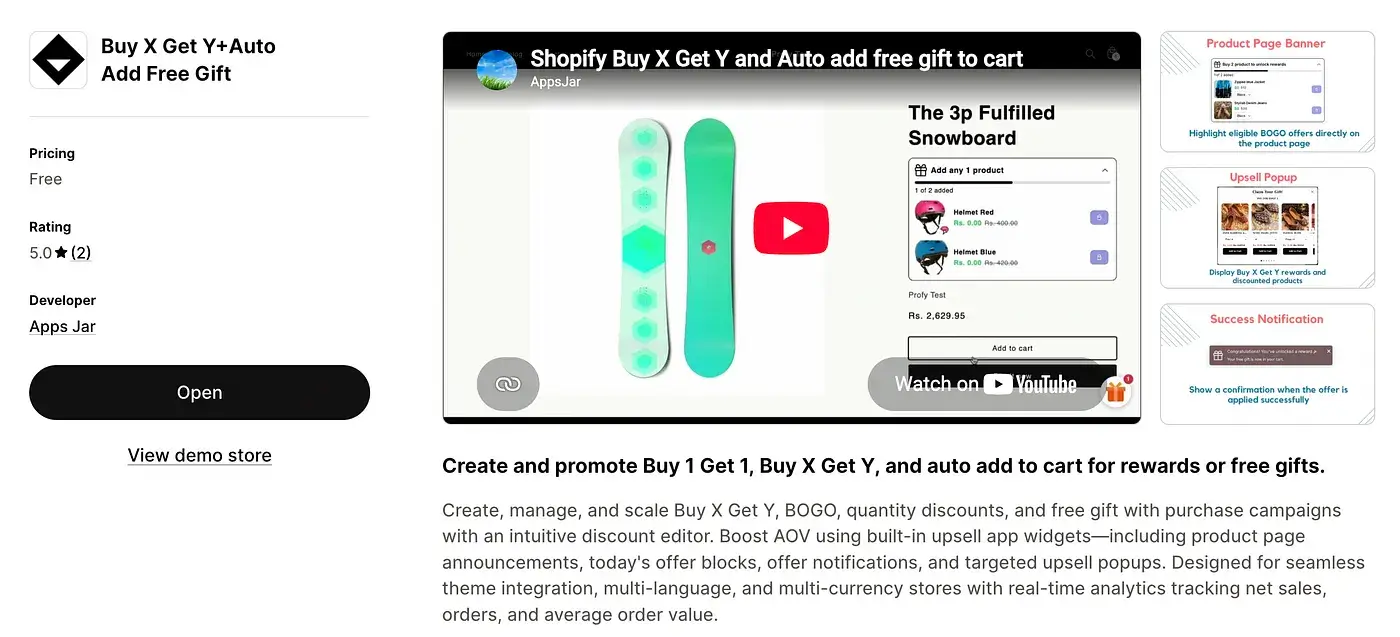
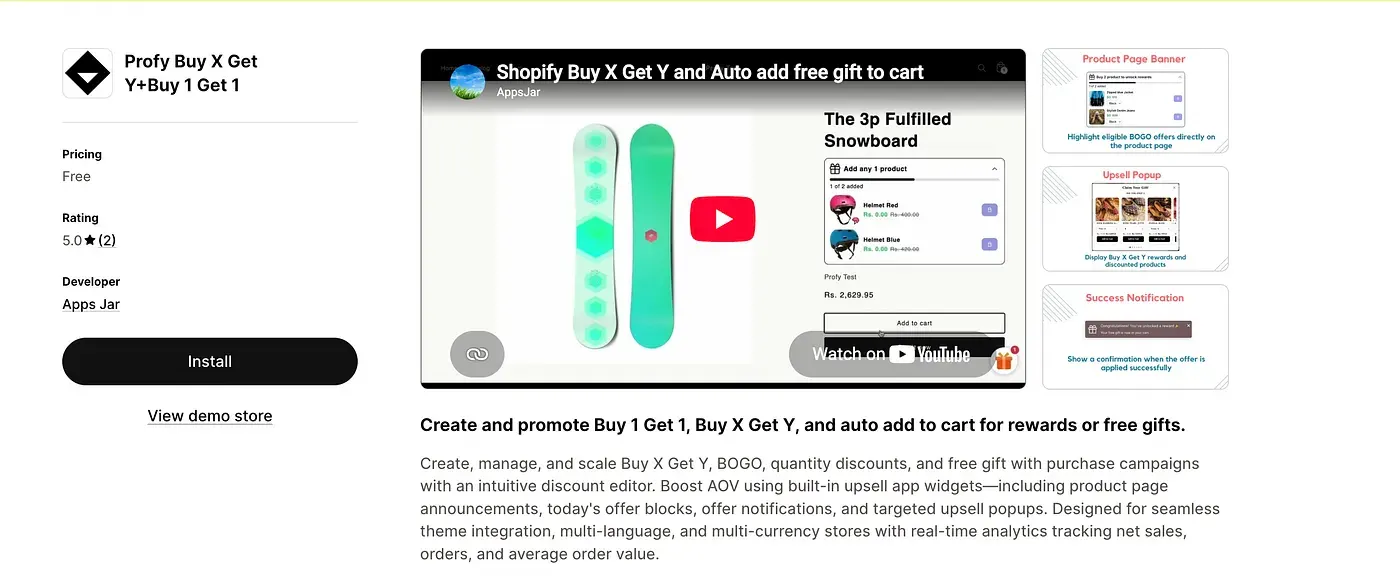
Updated app name and screenshot

diff --git a/_posts/2026-09-17-buy-x-get-y-free-discounts-on-shopify.md b/_posts/2026-09-17-buy-x-get-y-free-discounts-on-shopify.md
@@ -16,15 +16,15 @@ In this guide, you will learn:
 
 Whether you’re looking for a simple native solution or an automated, high-converting app setup, this walkthrough covers everything you need to build, launch, and optimize your BOGO strategy.
 
-### Install the “Buy X Get Y+Auto add Free Gift” Shopify app
+### Install the “Profy Buy X Get Y+Buy 1 Get 1” Shopify app
 
 <figure>
-  <img src="/assets/blog/buy-x-get-y/profy-app-page.webp" data-zoom-src="https://miro.medium.com/v2/resize:fit:4800/format:webp/1*a1qYb5yi-s4lKXF_kwjQRw.png" alt="Profy app page" loading="lazy"
+  <img src="/assets/blog/buy-x-get-y/profy-app-page.webp" data-zoom-src="https://miro.medium.com/v2/resize:fit:4800/format:webp/1*Kj453pU_VzePiasuAuKbrg.png" alt="Profy app page" loading="lazy"
     decoding="async">
   <figcaption>Profy app page</figcaption>
 </figure>
 
-Shopify doesn’t natively provide Buy X Get Y discount promotion widgets. We will install [**Buy X Get Y+Auto add Free Gift**](https://apps.shopify.com/profy-bogo-free-gift-upsell) Shopify app to create and promote these offers with product page announcements, upsell popups, Today’s Offer widgets, and success notifications.
+Shopify doesn’t natively provide Buy X Get Y discount promotion widgets. We will install [**Profy Buy X Get Y+Buy 1 Get 1**](https://apps.shopify.com/profy-bogo-free-gift-upsell) Shopify app to create and promote these offers with product page announcements, upsell popups, Today’s Offer widgets, and success notifications.
 
 Then, use the app’s analytics to measure offer performance, identify what works best, and optimize your promotions for higher conversions and sales.
 
@@ -128,7 +128,7 @@ The video demonstration below shows all four promotional widgets in action, high
 </figure>
 - **Today’s Offer Widget:** A persistent sticky button fixed to the side of the screen. When clicked, it opens a popup showcasing a full list of all **active Buy X Get Y and Free Gift deals across your store**.
 - **Upsell Popup:** Triggers automatically as soon as a **customer meets the “Buy” requirements**. It displays eligible reward products alongside their discounted prices, prompting shoppers to add the extra items to their cart to claim the deal.
-- **Product Page BXGY Announcement:** Displays applicable Buy X Get Y deals directly on the **product detail page _before_ a item is added to the cart**. This incentivizes hesitant browsers by highlighting the value of the promotion early in their decision-making process.
+- **Product Page BXGY Announcement:** Displays details of applicable Buy X Get Y deal directly on the **product detail page _before_ a item is added to the cart**. This incentivizes hesitant browsers by highlighting the value of the promotion early in their decision-making process.
 - **Success Notification:** Appears immediately after an offer is successfully added to the cart, providing clear confirmation to customers that **their discount has been applied to the order**.
 
 ### **Tracking Performance and Optimizing Your Buy X Get Y Campaigns**

diff --git a/_posts/2026-11-01-buy-2-get-1-on-shopify.md b/_posts/2026-11-01-buy-2-get-1-on-shopify.md
@@ -31,12 +31,12 @@ However the options are very limited like:
 ### Installing a Shopify App for “Buy 2, Get 1 Free” Offers
 
 <figure>
-  <img src="/assets/blog/buy-x-get-y/profy-app-page.webp" data-zoom-src="https://miro.medium.com/v2/resize:fit:4800/format:webp/1*a1qYb5yi-s4lKXF_kwjQRw.png" alt="Profy app page" loading="lazy"
+  <img src="/assets/blog/buy-x-get-y/profy-app-page.webp" data-zoom-src="https://miro.medium.com/v2/resize:fit:4800/format:webp/1*Kj453pU_VzePiasuAuKbrg.png" alt="Profy app page" loading="lazy"
     decoding="async">
   <figcaption>Profy app page</figcaption>
 </figure>
 
-To overcome these limitations and make your **Buy 2 Get 1 Free** promotion easier for customers to discover and redeem, we’ll use the [**Buy X Get Y + Auto Add Free Gift**](https://apps.shopify.com/profy-bogo-free-gift-upsell) Shopify app.
+To overcome these limitations and make your **Buy 2 Get 1 Free** promotion easier for customers to discover and redeem, we’ll use the [**Profy Buy X Get Y+Buy 1 Get 1**](https://apps.shopify.com/profy-bogo-free-gift-upsell) Shopify app.
 
 **Link**: [https://apps.shopify.com/profy-bogo-free-gift-upsell](https://apps.shopify.com/profy-bogo-free-gift-upsell)
 

diff --git a/_posts/2026-11-01-buy-1-get-1-on-shopify.md b/_posts/2026-11-01-buy-1-get-1-on-shopify.md
@@ -30,12 +30,12 @@ These limitations make it **harder for customers to discover and redeem** your B
 ### Installing a Shopify App for “Buy 1, Get 1 Free” Offers
 
 <figure>
-  <img src="/assets/blog/buy-x-get-y/profy-app-page.webp" data-zoom-src="https://miro.medium.com/v2/resize:fit:4800/format:webp/1*a1qYb5yi-s4lKXF_kwjQRw.png" alt="Profy app page" loading="lazy"
+  <img src="/assets/blog/buy-x-get-y/profy-app-page.webp" data-zoom-src="https://miro.medium.com/v2/resize:fit:4800/format:webp/1*Kj453pU_VzePiasuAuKbrg.png" alt="Profy app page" loading="lazy"
     decoding="async">
   <figcaption>Profy app page</figcaption>
 </figure>
 
-To overcome the limitations of Shopify’s default discount functionality, we’ll install the [**Buy X Get Y + Auto Add Free Gift**](https://apps.shopify.com/profy-bogo-free-gift-upsell) Shopify app.
+To overcome the limitations of Shopify’s default discount functionality, we’ll install the [**Profy Buy X Get Y+Buy 1 Get 1**](https://apps.shopify.com/profy-bogo-free-gift-upsell) Shopify app.
 
 **Link**: [https://apps.shopify.com/profy-bogo-free-gift-upsell](https://apps.shopify.com/profy-bogo-free-gift-upsell)
 

diff --git a/_posts/2026-11-01-automatically-add-free-gift-shopify.md b/_posts/2026-11-01-automatically-add-free-gift-shopify.md
@@ -32,12 +32,12 @@ As a result, **customers may not even know the offer exists** or understand how 
 ### Installing a Shopify App for Free Gifts
 
 <figure>
-  <img src="/assets/blog/buy-x-get-y/profy-app-page.webp" data-zoom-src="https://miro.medium.com/v2/resize:fit:4800/format:webp/1*a1qYb5yi-s4lKXF_kwjQRw.png" alt="Profy app page" loading="lazy"
+  <img src="/assets/blog/buy-x-get-y/profy-app-page.webp" data-zoom-src="https://miro.medium.com/v2/resize:fit:4800/format:webp/1*Kj453pU_VzePiasuAuKbrg.png" alt="Profy app page" loading="lazy"
     decoding="async">
   <figcaption>Profy app page</figcaption>
 </figure>
 
-To overcome the limitations of Shopify’s default discount functionality, we’ll use the [**Buy X Get Y + Auto Add Free Gift**](https://apps.shopify.com/profy-bogo-free-gift-upsell) Shopify app.
+To overcome the limitations of Shopify’s default discount functionality, we’ll use the [**Profy Buy X Get Y+Buy 1 Get 1**](https://apps.shopify.com/profy-bogo-free-gift-upsell) Shopify app.
 
 **Link**: [https://apps.shopify.com/profy-bogo-free-gift-upsell](https://apps.shopify.com/profy-bogo-free-gift-upsell)
 
